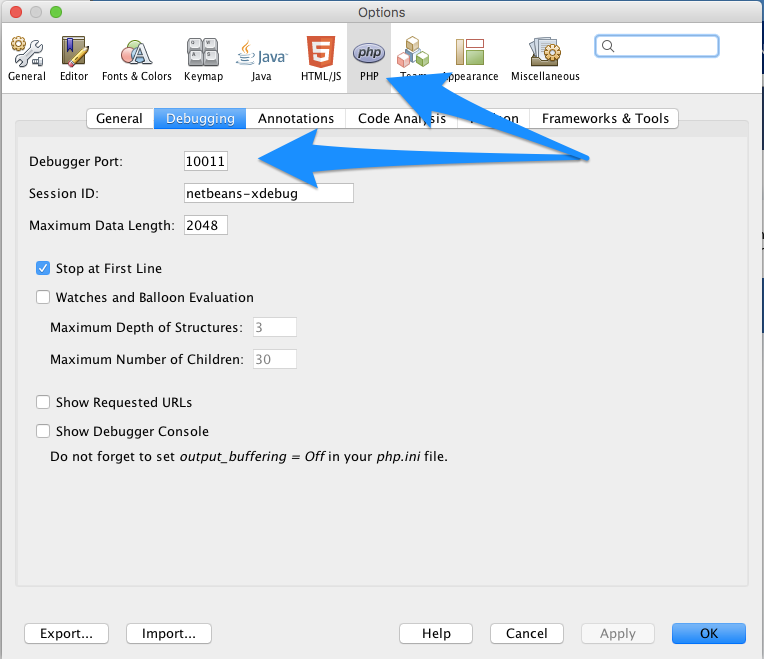
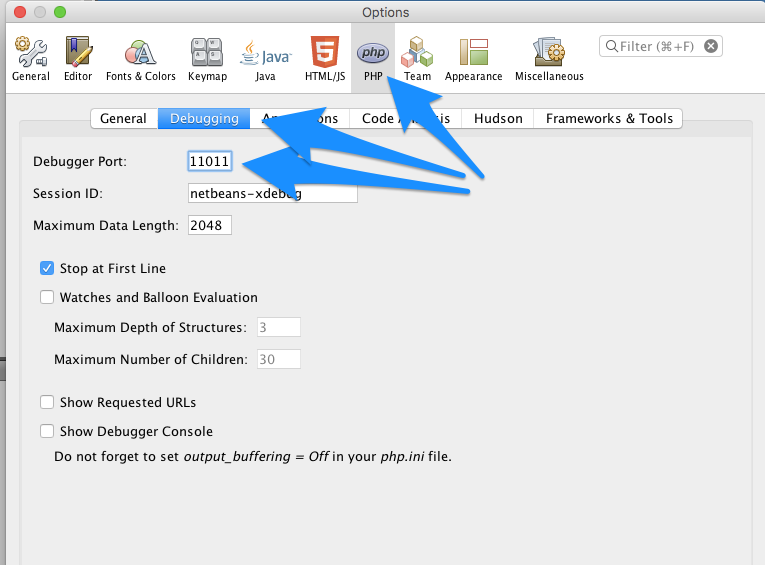
Fix images with wrong port, missing image

diff --git a/docs/step-debugging.md b/docs/step-debugging.md
@@ -82,7 +82,7 @@ Before, beginning anything else, please set your Debugger Port to 11011. (Prefer
 
 1. Install an xdebug helper extension for your browser, [as suggested in documentation](https://atom.io/packages/php-debug#setting-up-xdebug)
 2. Under Preferences->+Install install the php-debug add-on:
-![php-debug installation](images/atom_php_debug_install.php)
+![php-debug installation](images/atom_php_debug_install.png)
 3. Add configuration to the Atom config.cson by choosing "Config..." under the "Atom" menu. A "php-debug" stanza must be added, with file mappings that relate to your project.
 ![Atom cson config](images/atom_cson_config.png)
 4. Open a project/folder and open a PHP file you'd like to debug.
